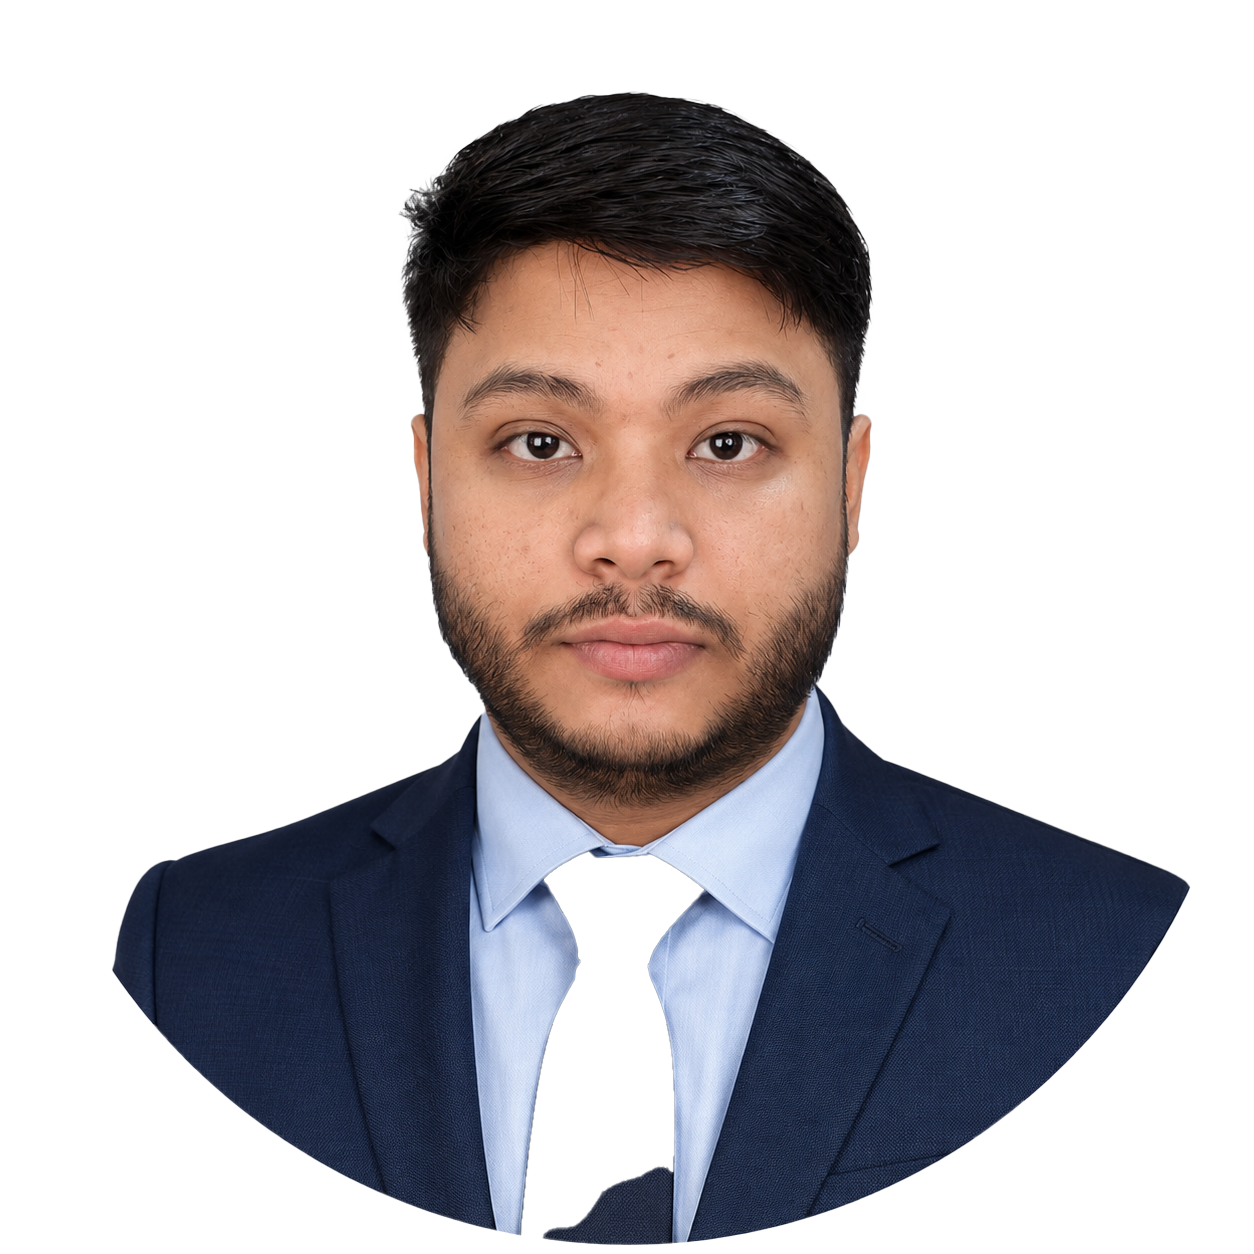
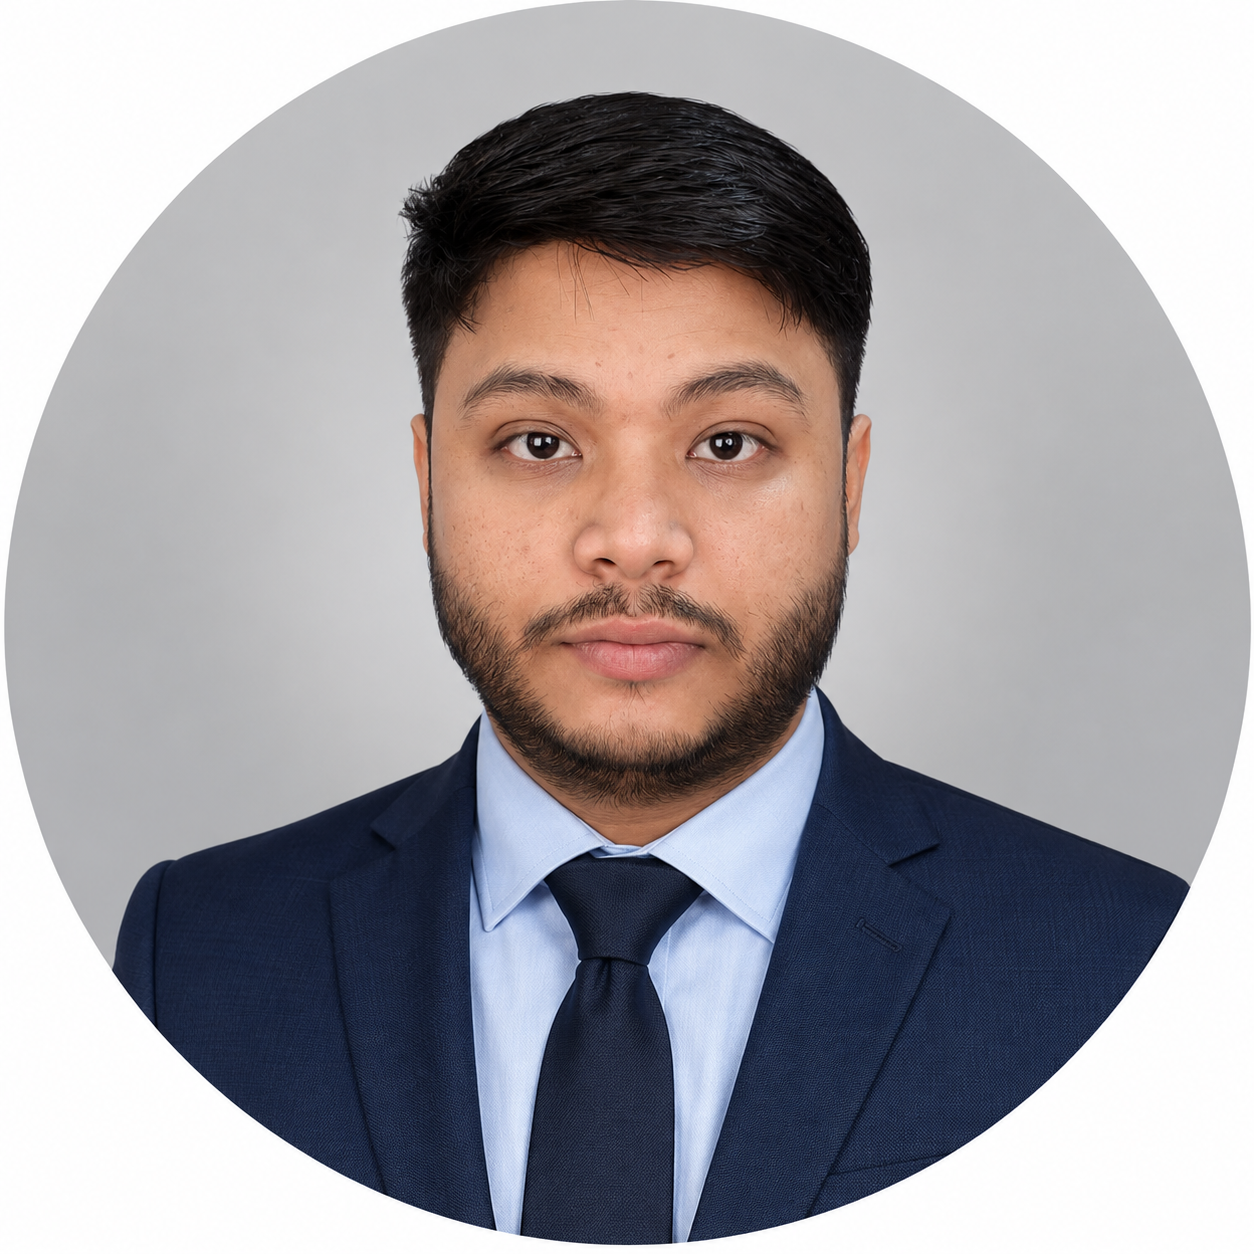
Updated CV download and section change

diff --git a/pages/education.html b/pages/education.html
@@ -12,11 +12,11 @@
 
             <h5>EDUCATION</h5>
 
-            <h2>My Education</h2>
+            <h2>Education & Certifications</h2>
 
             <p>
-                My academic background and professional training that
-                helped build my career in web design and development.
+                My academic qualifications and professional certifications that have shaped my journey 
+                in web development, design, graphics, and AI technologies.
             </p>
 
         </div>
@@ -30,21 +30,20 @@
                 <div class="timeline_content">
 
                     <span class="timeline_date">
-                        2021 - 2024
+                        2016 - 2020
                     </span>
 
                     <h3>
-                        Bachelor of Computer Applications (BCA)
+                        Bachelor of Commerce (B.Com)
                     </h3>
 
                     <h4>
-                        Maulana Abul Kalam Azad University of Technology
+                        University of Calcutta (CU)
                     </h4>
 
                     <p>
-                        Studied computer science fundamentals including
-                        programming, database management, web technologies,
-                        networking and software engineering.
+                        Completed my Bachelor of Commerce degree with a strong foundation in business, 
+                        accounting, finance, and management principles.
                     </p>
 
                 </div>
@@ -58,21 +57,72 @@
                 <div class="timeline_content">
 
                     <span class="timeline_date">
-                        Professional Training
+                        2023 - 2024
                     </span>
 
                     <h3>
-                        Web Design & UI/UX Design
+                        Diploma in Open Source Technologies
                     </h3>
 
                     <h4>
-                        Arena Animation
+                        G-TEC Computer Education
                     </h4>
 
                     <p>
-                        Completed professional training in Web Design,
-                        Frontend Development and UI/UX Design using
-                        Figma and modern web technologies.
+                        Completed professional training in Open Source Technologies, covering web development, programming fundamentals, databases and modern software development concepts.
+                    </p>
+
+                </div>
+
+            </div>
+
+            <div class="timeline_item">
+
+                <div class="timeline_dot"></div>
+
+                <div class="timeline_content">
+
+                    <span class="timeline_date">
+                        2024
+                    </span>
+
+                    <h3>
+                        Graphics Design
+                    </h3>
+
+                    <h4>
+                       Mokam Global Education Hub
+                    </h4>
+
+                    <p>
+                        Completed professional training in Graphic Design, working with Adobe Photoshop, Illustrator, branding, social media creatives, print design, and visual communication.
+                    </p>
+
+                </div>
+
+            </div>
+
+            <div class="timeline_item">
+
+                <div class="timeline_dot"></div>
+
+                <div class="timeline_content">
+
+                    <span class="timeline_date">
+                        2026 - Present
+                    </span>
+
+                    <h3>
+                       NextGen AI (Currently Pursuing)
+                    </h3>
+
+                    <h4>
+                        Career 247 Institute <br>
+                        IIT Madras Certified Program
+                    </h4>
+
+                    <p>
+                        Currently enrolled in the NextGen AI program, gaining practical knowledge of Artificial Intelligence, Generative AI, Prompt Engineering, AI tools, and modern AI-powered workflows. Certification will be awarded by IIT Madras upon successful completion.
                     </p>
 
                 </div>

diff --git a/pages/skills.html b/pages/skills.html
@@ -87,6 +87,32 @@
 
                     </div>
 
+                     <div class="skill_item">
+
+                        <div class="skill_info">
+                            <span>React Js</span>
+                            <span>70%</span>
+                        </div>
+
+                        <div class="progress">
+                            <div class="progress-bar js_bar" data-width="70%"></div>
+                        </div>
+
+                    </div>
+
+                     <div class="skill_item">
+
+                        <div class="skill_info">
+                            <span>Wordpress</span>
+                            <span>80%</span>
+                        </div>
+
+                        <div class="progress">
+                            <div class="progress-bar js_bar" data-width="80%"></div>
+                        </div>
+
+                    </div>
+
                 </div>
 
             </div>
@@ -125,6 +151,16 @@
                     <div class="skill_card">
                         <i class="fa-brands fa-git-alt"></i>
                         <h4>Git</h4>
+                    </div>
+
+                    <div class="skill_card">
+                        <i class="fa-brands fa-react"></i>
+                        <h4>React</h4>
+                    </div>
+
+                    <div class="skill_card">
+                        <i class="fa-brands fa-wordpress"></i>
+                        <h4>Wordpress</h4>
                     </div>
 
                 </div>

diff --git a/pages/contact.html b/pages/contact.html
@@ -133,7 +133,7 @@
 
                         </a>
 
-                        <a href="#" class="contact_btn contact_btn_two">
+                        <a href="assets/cv.pdf" download class="contact_btn contact_btn_two">
 
                             Download CV
 
@@ -171,11 +171,9 @@
 
         </a>
 
-        <a href="assets/Bittu_Majumder_CV.pdf"
-           class="contact_btn contact_btn_two"
-           download>
+        <a href="assets/cv.pdf" target="_blank" class="contact_btn contact_btn_two">
 
-            Download CV
+            View CV
 
         </a>
 

diff --git a/pages/experience.html b/pages/experience.html
@@ -30,7 +30,7 @@
                 <div class="timeline_content">
 
                     <span class="timeline_date">
-                        July 2024 - Present
+                        November 2024 - Present
                     </span>
 
                     <h3>
@@ -57,9 +57,15 @@
 
                         <li>JavaScript</li>
 
+                        <li>PHP & Mysql</li>
+
+                        <li>Wordpress</li>
+
                         <li>UI/UX Design using Figma</li>
 
                         <li>Student Mentoring</li>
+
+                        <li>And many more Tools & Software</li>
 
                     </ul>
 

diff --git a/pages/navbar.html b/pages/navbar.html
@@ -47,7 +47,11 @@
 
                 </ul>
 
-                <a href="#" class="cv_btn">
+                <a href="assets/cv.pdf" target="_blank" class="cv_btn">
+                    View CV
+                </a>
+
+                <a href="assets/cv.pdf" download class="cv_btn">
                     Download CV
                 </a>
 

diff --git a/pages/hero.html b/pages/hero.html
@@ -40,9 +40,9 @@
 
                         <div class="hero_btn">
 
-                            <a href="files/Bittu_Majumder_CV.pdf" target="_blank" class="download_btn">
+                            <a href="assets/cv.pdf" target="_blank" class="download_btn">
 
-                                Download CV
+                               &nbsp; &nbsp; View CV &nbsp; &nbsp;
 
                             </a>
 

diff --git a/pages/about.html b/pages/about.html
@@ -16,7 +16,7 @@
 
                     <div class="about_img">
 
-                        <img src="images/profile.png" alt="Bittu Majumder">
+                        <img src="images/profile_2.png" alt="Bittu Majumder">
                         
                         <div class="experience_box">
 